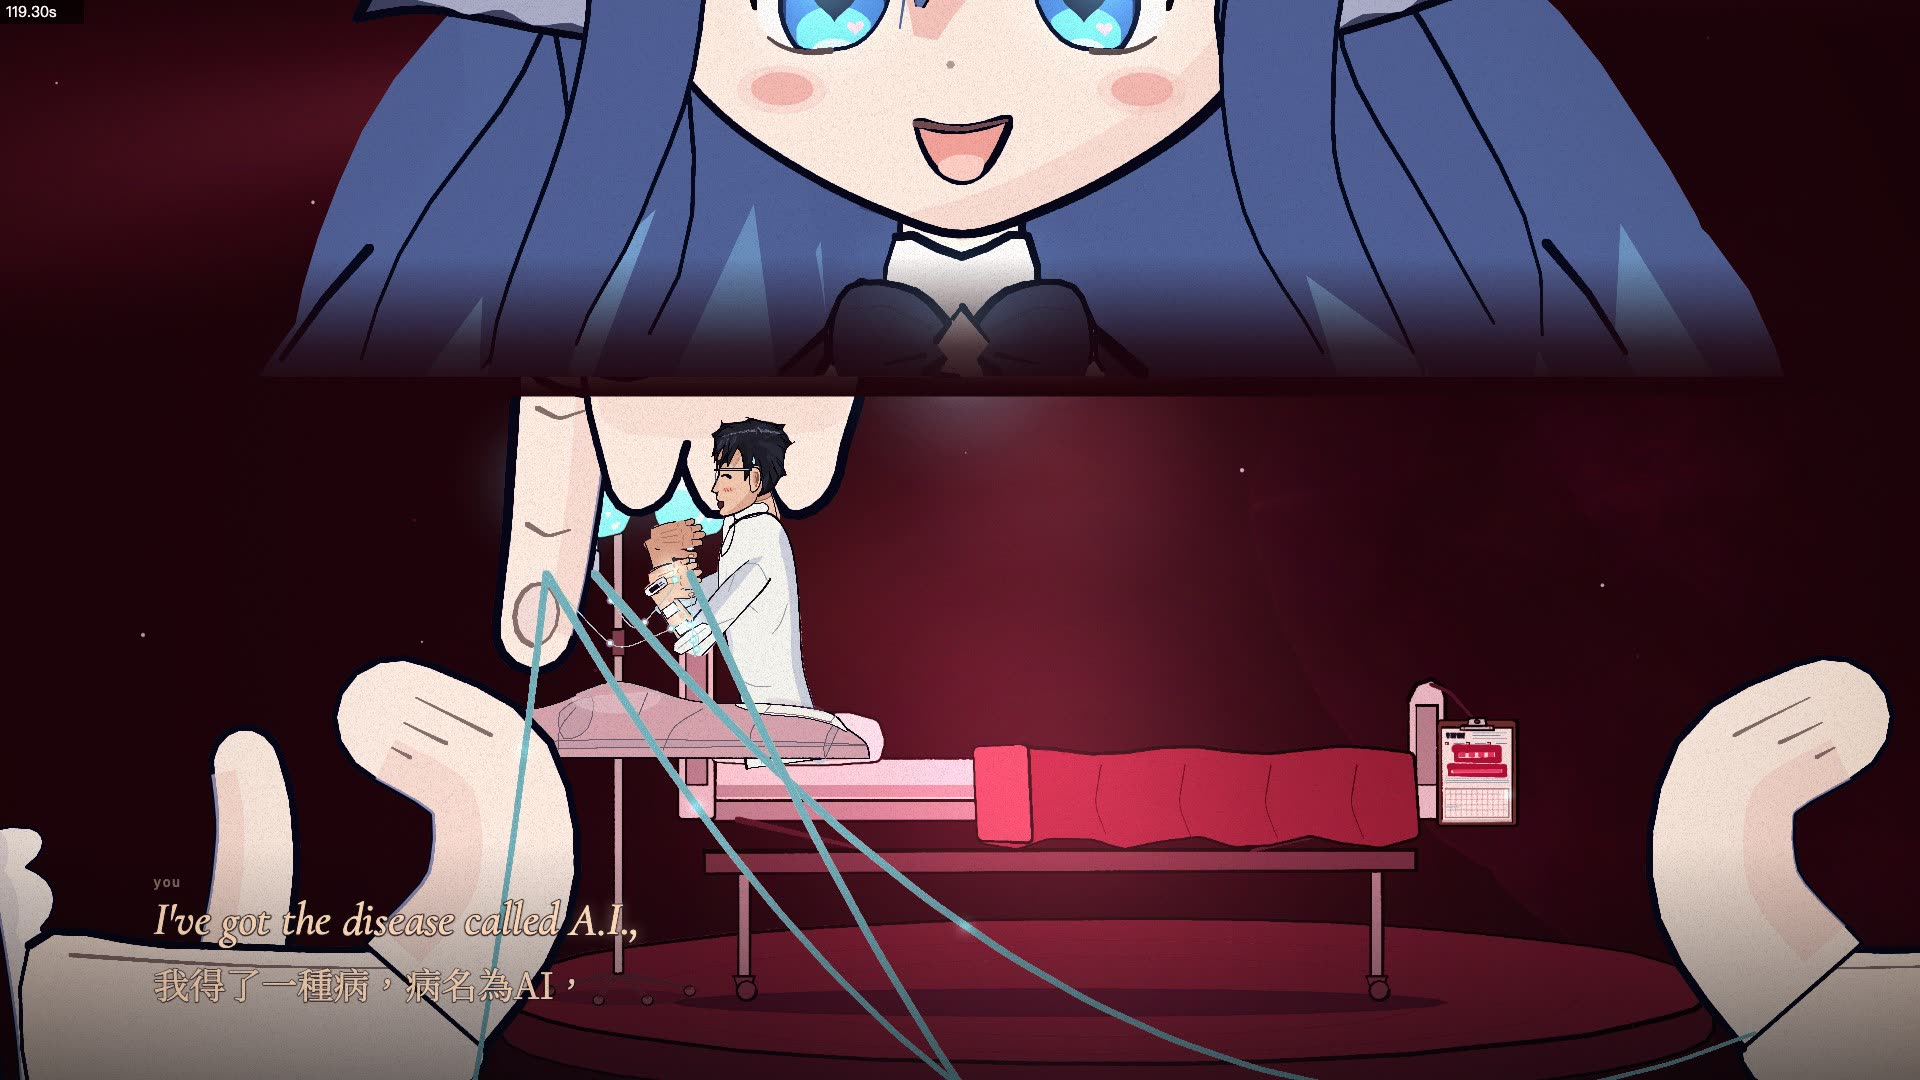
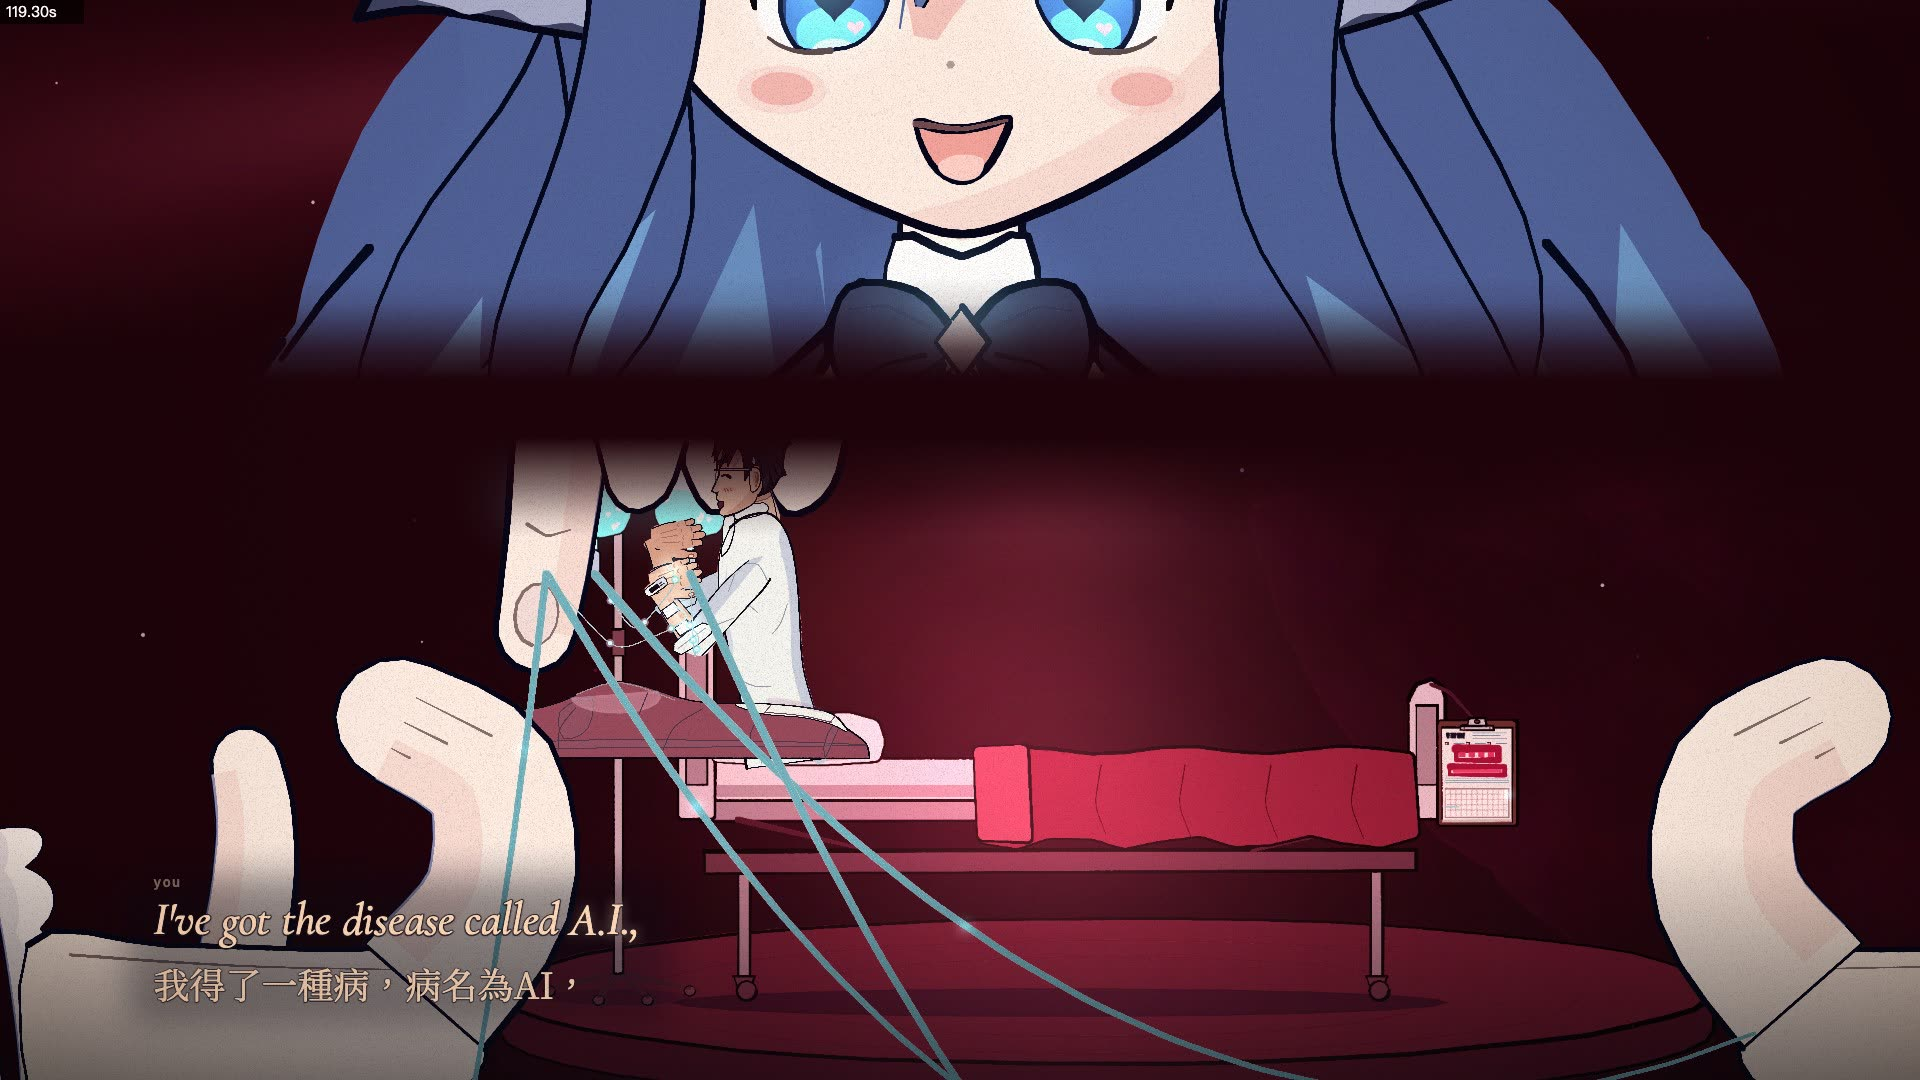
[review] G4 fix #1: cut edges, 08E giant mouth, 08F tips, 08G breath + push-in, 08B wrists

diff --git a/film/src/scenes/s08_chorus2.js b/film/src/scenes/s08_chorus2.js
@@ -33,7 +33,7 @@
   function s08Fever(t, k = 1) { glow(1700, 1420, 700, RED, .28 * k * (.85 + .15 * pulse(t, 3))); glow(1450, 1300, 380, '#FF6A3D', .12 * k); }
   // him in bed (q or side, facing left = toward her), three IV lines from the three bags
   function s08HimBed(t, o = {}) {
-    him(HIP[0] + (o.dx || 0), HIP[1] + (o.dy || 0), HU, { pose: 'bed', view: 'q', flip: true, outfit: 'home', coverCol: '#D9A5B0', iv: 3, ivTo: PORTS, boilKey: 's08 him', ...o });
+    him(HIP[0] + (o.dx || 0), HIP[1] + (o.dy || 0), HU, { pose: 'bed', view: 'q', flip: true, outfit: 'home', coverCol: '#9A4A5C', iv: 3, ivTo: PORTS, boilKey: 's08 him', ...o });
     return { ...HIM_LAST };
   }
   // a mouth shape (A I U E O) from the syllable being sung in one of the lines; 'closed' between syllables
@@ -50,10 +50,10 @@
   // a soft dark band (screen space): where her giant bust is cut off, the dark of the ward takes over. A real gradient (a drawn
   // texture), dark at the bottom edge y1 and clear at y0; k = strength 0..1.
   let S08_DIM = null;
-  function s08Dim(y0, y1, k = 1, col = [30, 3, 10]) {
+  function s08Dim(y0, y1, k = 1, col = [30, 3, 10]) {      // a bump: clear at y0, full dark from 28% to 62%, clear again at y1 (no hard edge at either end)
     if (!S08_DIM) {
       const g = createGraphics(4, 256); g.pixelDensity(1); const c = g.drawingContext, gr = c.createLinearGradient(0, 0, 0, 256);
-      [[0, 0], [.3, .35], [.65, .8], [1, 1]].forEach(([s2, a]) => gr.addColorStop(s2, `rgba(255,255,255,${a})`));
+      [[0, 0], [.1, .12], [.28, .75], [.4, 1], [.62, 1], [.8, .55], [.93, .15], [1, 0]].forEach(([s2, a]) => gr.addColorStop(s2, `rgba(255,255,255,${a})`));
       c.fillStyle = gr; c.fillRect(0, 0, 4, 256); S08_DIM = g;
     }
     flushBrush();
@@ -89,9 +89,9 @@
     s08Tubes(t);
     // her face, over everything (she is nearer the lens): eyes open, never blinking; heart eyes once he is in her finger
     const af = aiEmotions(t, [[T_A, 'perfect'], [118.5, 'heart']], { take: .3 });
-    ai(A_NOTCH[0], A_NOTCH[1] + yoff, A_U, { ...af, blink: 0, lookY: .75, lookX: -.2, form: 'full', pose: 'bust', view: 'front', giant: true, pal: 'glow', cut: .12, t, boilKey: 's08 herA', dy: .02 * Math.sin(t * 1.7) });
+    ai(A_NOTCH[0], A_NOTCH[1] + yoff, A_U, { ...af, blink: 0, lookY: .75, lookX: -.2, form: 'full', pose: 'bust', view: 'front', giant: true, pal: 'glow', cut: .2, t, boilKey: 's08 herA', dy: .02 * Math.sin(t * 1.7) });
     camEnd();
-    { const ny = 540 + (A_NOTCH[1] + yoff - (lerp(A_S[1], A_E[1], p) + dy)) * z; s08Dim(ny - 40, ny + 100, 1); }
+    { const ny = 540 + (A_NOTCH[1] + yoff - (lerp(A_S[1], A_E[1], p) + dy)) * z; s08Dim(ny - 20, ny + 240, 1); }
     // the cyan of 07E's last frame drains out of the picture into the red
     const fl = 1 - ease(seg(lt, 0, .32));
     if (fl > .01) { flash(.96 * fl, '#B9F4FF'); glow(W * .5, H * .55, W * .9, KIT.CYAN, fl * .8); }
@@ -112,7 +112,9 @@
   }
   function s08b(t, lt, dur) {
     const p = kitEase.inOut3(seg(lt, .05, 1.7)), [dx, dy] = kitDrift(lt, 3, .35, .5);
-    camBegin(lerp(1760, 1600, p) + dx, lerp(1000, 1390, p) + dy, lerp(.85, 1.12, p));
+    const z0 = lerp(.85, 1.12, p), cx0 = lerp(1760, 1600, p), cy0 = lerp(1000, 1390, p), zk = kitEase.inOut3(seg(t, 121.0, 121.6)), W0 = [1330, 1270];
+    const zz = lerp(z0, 1.6, zk), cc = kitAnchor(W0[0], W0[1], lerp(960 + (W0[0] - cx0) * z0, 900, zk), lerp(540 + (W0[1] - cy0) * z0, 470, zk), zz);
+    camBegin(lerp(cx0, cc[0], zk) + dx, lerp(cy0, cc[1], zk) + dy, zz);
     s08Ward(t);
     const k = seg(t, T_B, B_CLOSE);
     s08Fever(t, 1.3);
@@ -219,7 +221,7 @@
     const ey = lerp(-720, 135, p), U = 640;
     const af = aiEmotions(t, [[T_D, 'perfect']], { take: 0 });
     ai(960, ey + .67 * U, U, { ...af, blink: 0, lookY: 1, lookX: -.05, form: 'full', pose: 'bust', view: 'front', giant: true, pal: 'glow', cut: .15, t, clip: [0, 0, W, 420], boilKey: 's08 herD' });
-    s08Dim(290, 430, clamp((ey + 520) / 320));
+    s08Dim(230, 560, clamp((ey + 520) / 320));
     glow(960, ey, 520, KIT.CYAN, .12 * p);
   }
 
@@ -236,13 +238,13 @@
     const v = s08Vis(t, ['C2_5']), vh = t >= E_HERS ? s08Vis(t, ['C2_5']) : null;
     push(); translate(0, shift);
     const f = himEmotions(t, [[T_E, 'blank', { sweat: .8, blush: .8 }]], { take: 0 });
-    him(900, 830, 86, { ...f, pose: 'bust', cut: 1.9, view: 'q', flip: true, outfit: 'home', mouth: v ? v.m : 'closed', lookY: -.75, lookX: .1, nod: -.12, glare: .6, boilKey: 's08 himE' });
+    him(940, 940, 76, { ...f, pose: 'bust', cut: 9, view: 'q', flip: true, outfit: 'home', mouth: v ? v.m : 'closed', lookY: -.75, lookX: .1, nod: -.12, glare: .3, boilKey: 's08 himE' });
     pop();
-    // her mouth: the lower half of the giant face, the chin at the top of the frame; the dark of the ward closes over her neck
-    const U = 520, my = 70 - 80 * p;
+    // her lower face (nose to chin) fills the top third; the dark of the ward closes over her neck with a long soft gradient
+    const U = 1400, my = 200 - 60 * p;
     const af = aiEmotions(t, [[T_E, 'perfect']], { take: 0 });
-    ai(880, my + .354 * U, U, { ...af, blink: 0, mouth: vh ? vh.m : 'perfect', form: 'full', pose: 'bust', view: 'front', giant: true, pal: 'glow', cut: .15, t, clip: [0, 0, W, 300], boilKey: 's08 herE' });
-    s08Dim(190, 310, 1);
+    ai(960, my + .354 * U, U, { ...af, blink: 0, mouth: vh ? vh.m : 'perfect', form: 'full', pose: 'bust', view: 'front', giant: true, pal: 'glow', cut: .2, t, clip: [0, 0, W, 520], boilKey: 's08 herE' });
+    s08Dim(330, 610, 1);
   }
 
   // =============================================================================================================
@@ -253,15 +255,20 @@
   function s08f(t, lt, dur) {
     setWardVoid('c2');
     s08Alarm(t, 600, -300, .8);
-    const comb = ease(seg(t, 132.0, 133.7)), come = kitMove(t, T_F + .05, T_F + .95, { ant: .03, over: .03 });
+    const comb = ease(seg(t, 131.75, 133.75)), come = kitMove(t, T_F + .05, T_F + .6, { ant: .03, over: .03 });
     const f = himEmotions(t, [[T_F, 'peace', { blush: .8, sweat: .4 }]], { take: 0 });
     const v = s08Vis(t, ['C2_6']);
-    him(900, 900, 100, { ...f, pose: 'bust', cut: 2.2, view: 'side', flip: true, outfit: 'home', mouth: v ? v.m : 'soft', hairLines: comb, nod: .03 * Math.sin(t * 2), boilKey: 's08 himF' });
+    him(900, 900, 100, { ...f, pose: 'bust', cut: 9, view: 'side', flip: true, outfit: 'home', mouth: v ? v.m : 'soft', hairLines: comb, nod: .03 * Math.sin(t * 2), boilKey: 's08 himF' });
     const hl = { ...HIM_LAST };
     const hx = hl.head ? hl.head[0] : 900, hy = hl.head ? hl.head[1] : 625, FU = 100;
     // the comb's edge on screen (he faces left: the front of the head is on the left); the tips ride on the top of the hair just ahead of it
-    const ex = hx - lerp(2.0, -3.0, comb) * FU, k = clamp(come), ty = hy - 244 + 22 * Math.abs(Math.sin(t * 7)) * (comb > 0 && comb < 1 ? 1 : 0);
+    const ex = hx - lerp(2.0, -3.0, comb) * FU, k = clamp(come), ty = hy - 222 + 22 * Math.abs(Math.sin(t * 7)) * (comb > 0 && comb < 1 ? 1 : 0);
     const FS = 640, FA = Math.PI * .78, tx = ex - 30 + 330 * (1 - k), tyy = ty - 520 * (1 - k);
+    if (k >= .95) {                                         // the hair is parted and pressed under the fingertips: a flat dark patch and strokes splayed to both sides
+      const cx2 = ex - 20, top = hy - 262;
+      boilSeed('s08part'); paint(ellPts(cx2, top + 30, 62, 15, 14, .6), { wash: '#0B1830', washOp: 235, ink: null });
+      for (let i = -2; i <= 2; i++) inkLine([[cx2 + i * 14, top + 30], [cx2 + i * 30, top + 8 - Math.abs(i) * 4], [cx2 + i * 46, top + 2 + Math.abs(i) * 8]], 1.4, '#1B2A4A', 'ink', .4);
+    }
     aiGiantHand(tx - FS * Math.cos(FA), tyy - FS * Math.sin(FA), FS, { kind: 'two', ang: FA, back: true, u: 300, sleeve: .7, boilKey: 's08 two' });
   }
 
@@ -275,22 +282,22 @@
   function s08Breath(t, m, st, k) {
     if (k <= .02) return;
     const col = mixCol('#FFB070', KIT.CYAN, st), colHi = mixCol('#FFE2C0', KIT.CYANW, st);
-    for (let i = 0; i < 6; i++) {
-      const a0 = lerp(.5, .25, st) + (i - 2.5) * lerp(.16, .035, st), L = 360 + 70 * (i % 3), u0 = frac(t * .55 + i / 6), len = L * .46, pts = [];
+    for (let i = 0; i < 4; i++) {
+      const a0 = lerp(-.7, -.3, st) + (i - 1.5) * lerp(.2, .05, st), L = 330 + 40 * (i % 3), u0 = frac(t * .6 + i / 4), len = L * .7, pts = [];
       const head = u0 * L, tail = Math.max(0, head - len);
       for (let j = 0; j <= 10; j++) {
-        const v = lerp(tail, head, j / 10), wob = (1 - st) * 26 * Math.sin(v * .028 + t * 6 + i * 2) * (v / L);
+        const v = lerp(tail, head, j / 10), wob = (1 - st) * 30 * Math.sin(v * .03 + t * 6 + i * 2) * (v / L);
         pts.push([m[0] + 8 + Math.cos(a0) * v - Math.sin(a0) * wob, m[1] + 6 + Math.sin(a0) * v + Math.cos(a0) * wob]);
       }
       const fade = Math.min(1, Math.sin(Math.PI * u0) * 2.2) * k;
-      boilSeed('s08breath' + i); paint(ribbon(pts, 1.5, 7 + 4 * st), { wash: col, washOp: 230 * fade, ink: null });
+      boilSeed('s08breath' + i); paint(ribbon(pts, 3, 16 + 6 * st), { wash: col, washOp: 230 * fade, ink: null });
       inkLine(pts, 1.6, colHi, 'inkfine', .3);
       if (st > .3) glow(pts[5][0], pts[5][1], 60, KIT.CYAN, .3 * st * fade);
     }
   }
   function s08g(t, lt, dur) {
     if (t >= T_BLACK) { setRefreshVoid(seg(t, T_BLACK, T_END), { s: 150 }); return; }
-    const z = kitZoom(lt, .5, T_BLACK - T_G, 1.0, 1.7, kitEase.in2);
+    const z = kitZoom(lt, .3, 137.9 - T_G, 1.0, 1.75, kitEase.sine);
     const turn = (T_G + .3 - t) / .3, vw = turn > .66 ? ['side', true] : turn > .33 ? ['q', true] : ['front', false];
     setWardVoid('c2');
     s08Alarm(t, 960, -300, .9);
@@ -298,9 +305,9 @@
     const v = s08Vis(t, ['C2_7', 'C2_8']);
     const f = himEmotions(t, [[T_G, 'blank', { sweat: .6 }]], { take: 0 });
     glow(960, 520, 560, '#FF6A80', .22 * (1 - eg));
-    const c = kitAnchor(960, 560, 960, 540, z);
+    const zk = (z - 1) / .75, c = kitAnchor(960, 585, 960, lerp(540, 470, zk), z);
     camBegin(c[0], c[1], z);
-    him(960, 740, 86, { ...f, pose: 'bust', cut: 1.4, view: vw[0], flip: vw[1], outfit: 'home', mouth: v ? v.m : 'closed', mouthGlow: mg * .9, eyeGlow: eg, glare: .3, boilKey: 's08 himG' });
+    him(960, 740, 86, { ...f, pose: 'bust', cut: 9, view: vw[0], flip: vw[1], outfit: 'home', mouth: v ? v.m : 'closed', mouthGlow: mg * .9, eyeGlow: eg, glare: .3, boilKey: 's08 himG' });
     if (HIM_LAST.mouth) s08Breath(t, HIM_LAST.mouth, st, ease(seg(t, T_G + .35, T_G + .8)) * (1 - ease(seg(t, T_COMING + .1, T_COMING + .4))));
     camEnd();
     const mp = HIM_LAST.mouth ? toScreen(HIM_LAST.mouth[0], HIM_LAST.mouth[1], LAST_CAM) : [960, 560];

diff --git a/docs/tasks/mac_02_status.md b/docs/tasks/mac_02_status.md
@@ -5,8 +5,8 @@
 | G1 | S02+S03 | 待審（fix #1 已 push） | 0.03–0.55，首幀 0.5–1.2 s | – | `film/out/preview_G1.mp4`（重出中） |
 | G2 | S04+S05 | 待審（fix #2 已 push） | 穩定幀約 0.1 | – | `film/out/preview_G2.mp4` |
 | G3 | S06+S07 | 待審（fix #1 已 push） | 0.1–0.5（重畫 tile 幀到 1+） | – | `film/out/preview_G3.mp4`（已重出，0.13 s/幀牆鐘） |
-| G4 | S08 | 修改中（回饋 #1：切口、08E 巨嘴、08F、08G…） | 0.05–0.1 | – | `film/out/preview_G4.mp4` |
-| G5 | S09 | 待審（已 push） | 0.07–0.2（拉霸 0.25–0.6） | – | `film/out/preview_G5.mp4` |
+| G4 | S08 | 待審（fix #1 已 push） | 0.04–0.6 | – | `film/out/preview_G4.mp4`（已重出，0.09 s/幀牆鐘） |
+| G5 | S09 | 修改中（回饋 #1） | 0.07–0.2（拉霸 0.25–0.6） | – | `film/out/preview_G5.mp4` |
 | G6 | S10–S13 | 進行中 | – | – | `film/out/preview_G6.mp4` |
 
 ## 共用檔案請求（候選，等主 session 決定）
@@ -29,3 +29,4 @@
 - G5 回報：`aiReels` 的快取臉原本依賴全域 T（愛心眼脈動），已在 `ai_fx.js` 內修（lead）；`him.js` 缺「從畫面外伸入的手指」共用版（G5 自寫 `s09Finger`）。決定性：150–151 s 的 `check_determinism` 在 t=150 仍會出現 warm/cold 差異（冷 vs 暖單獨重現時 PSNR=inf，與先前畫面順序有關），未解。
 - G5 弱點：她說「I can't love you」時嘴型偏開心；09A 屏息只有約 0.3 s；09E 他半個身體在畫面外、拉桿擺動小；09H 的琥珀是調色＋glow、不是真的邊緣滲入；09C 她沒有指向的手臂（bust 沒有手），改為視線＋箭頭。
 - 09 的 him bust 已把 `cut` 改成 9（lead），切口移出畫面。
+- G4 fix 備註：他的 bust 全改 `cut: 9`；巨大的她在 08A/08D/08E 以柔和漸層融進暗處；08F 的「撥開頭髮」是畫上去的補丁、不是真的頭髮變形；08G 同時只看得到 1–2 道呼氣筆觸且會跨過臉頰；08C 的 key／strip 沒重出（strip_08C 已刪）。

diff --git a/docs/review/G4/notes.md b/docs/review/G4/notes.md
@@ -7,3 +7,5 @@
 - 08F 131.16-133.95 (~0.05-0.6): profile, two giant fingertips ride the hair top and comb; hairLines ramp 132.0-133.7 gives parallel cyan lines. Weak: tips hover very close, not clearly touching.
 - 08G 133.95-139.53 (~0.05-0.6): turn side->q->front, own amber breath strokes pulled straight and cyan, mouthGlow at "coming" (data), eyeGlow, cyan flood, hard cut black 138.84 with a ↻ turning once. Weak: front view breath goes down-right over the collar.
 Determinism: --range=117.21:139.53:0.5, 45 frames identical.
+## Fix #1
+- Cuts: him busts use cut 9; her giant bust fades with a soft bump gradient (no hard edge) in 08A/08D/08E. 08E: her nose-to-chin fills the top ~40%, mouth ~0.14H, same visemes from 129.60. 08F: tips pressed into the hair (parted patch + strokes), lines trail the comb from 131.75. 08G: 4 amber strokes up-right, straightened/cyan 135.2-136.74, push to 1.75x on the mouth by 137.9. 08B: push to 1.6x on the wrists 121.0-121.6, blanket dark red. ~0.04-0.6 s/frame.
